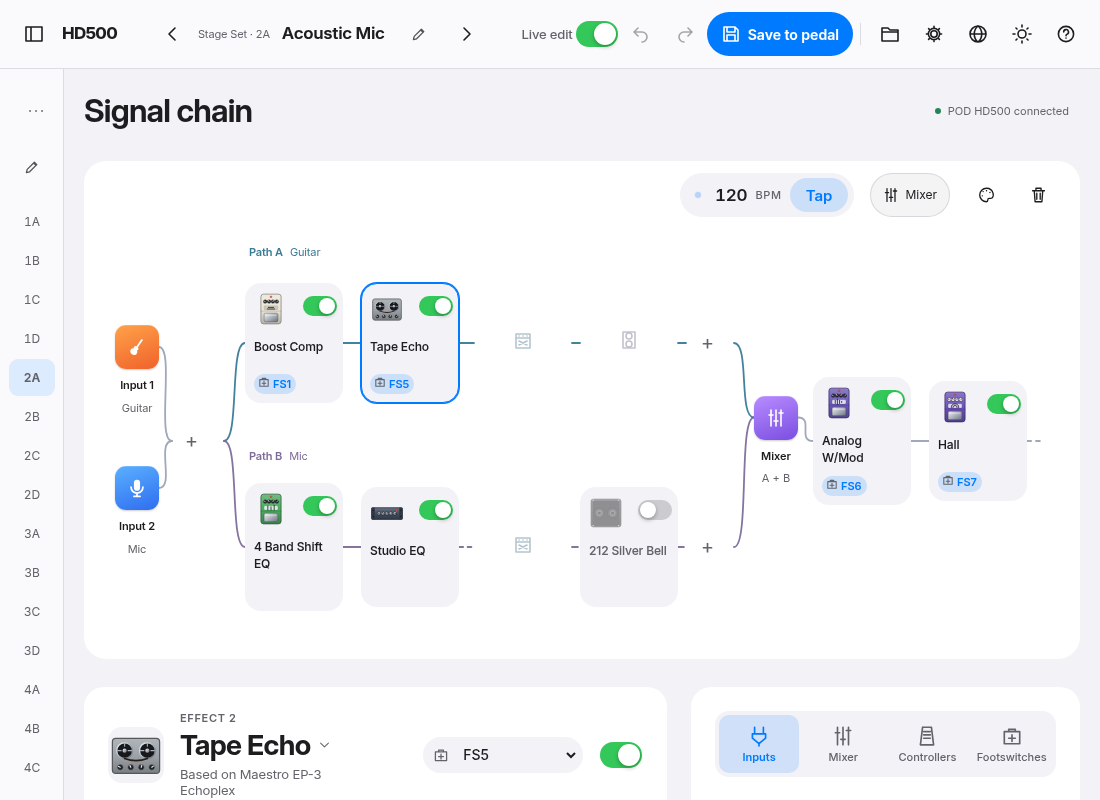
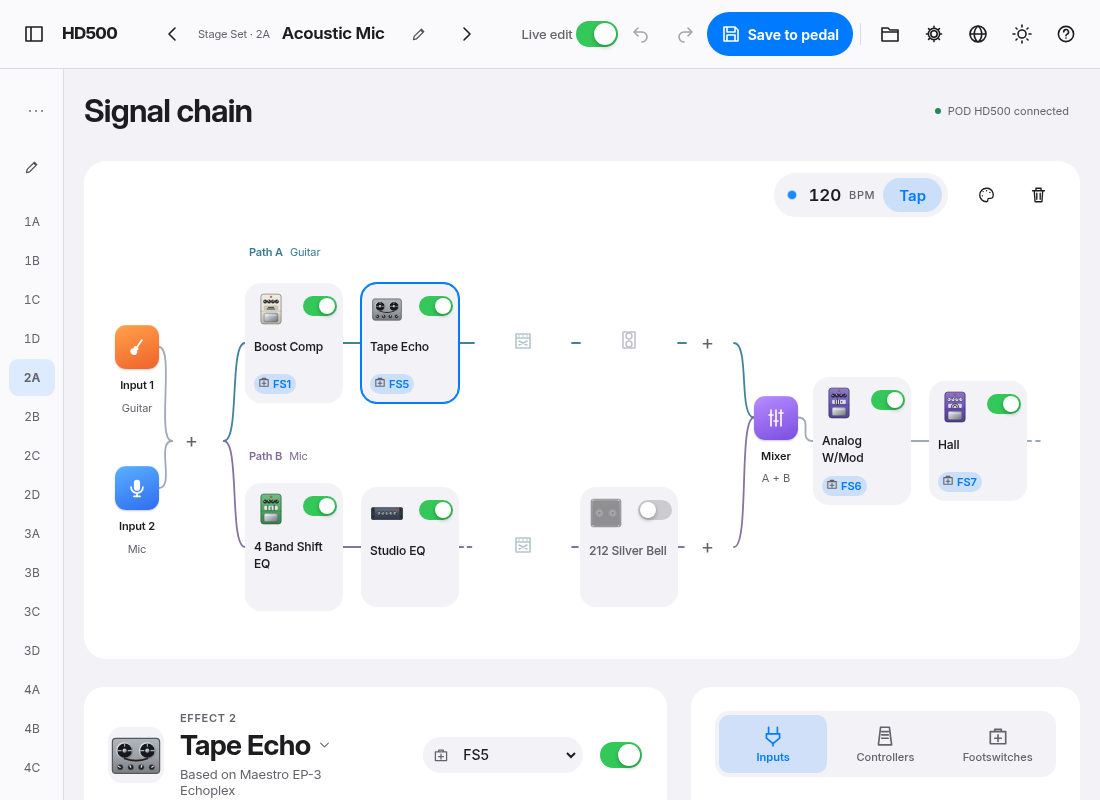
Mixer is a chain block edited in the inspector; removed Mixer tab and toolbar button

Changed region(s): [[0.68, 0.875, 0.9582, 0.9688], [0.6491, 0.2188, 0.8655, 0.2812]]

diff --git a/app/public/js/main.js b/app/public/js/main.js
@@ -9,14 +9,14 @@ import { initTooltips, h, api, fail, toast, $, modal, menu, download, pickFile, 
 import { S, onChange, notify, presetLabel } from './store.js';
 import { renderChain, flashItem, isDragging, clearBlock } from './chain.js';
 import { renderInspector, patchParam } from './inspector.js';
-import { renderSetup, renderMixer, renderControllers, renderFootswitches, renderAdvanced, renderSidebar, initSidebar, invalidate, flashFs, libraryProgress, learnSetup, learnUnknown, openDevTools } from './panels.js';
+import { renderSetup, renderControllers, renderFootswitches, renderAdvanced, renderSidebar, initSidebar, invalidate, flashFs, libraryProgress, learnSetup, learnUnknown, openDevTools } from './panels.js';
 import { selectSlot } from './nav.js';
 import { icon, buttonIcon } from './icons.js';
 
 initTooltips();
 new ResizeObserver(() => document.documentElement.style.setProperty('--toolbar-height', `${$('#top').getBoundingClientRect().height}px`)).observe($('#top'));
 
-const TABS = { setup: renderSetup, mixer: renderMixer, controllers: renderControllers, fs: renderFootswitches };
+const TABS = { setup: renderSetup, controllers: renderControllers, fs: renderFootswitches };
 let lastPreset = null, saving = false;
 
 function render() {
@@ -81,7 +81,7 @@ async function init() {
     const { item, active } = JSON.parse(e.data); if (liveEdits.ignores(`active:${item}`)) return; const it = S.st?.preset.items.find(i => i.id === item); if (!it) return;
     it.active = active; notify(); flashItem(item); if (it.fs) flashFs(it.fs);
   });
-  es.addEventListener('setup', e => { const ev = JSON.parse(e.data); if (liveEdits.ignores(`setup:${ev.id}`)) return; const set = S.st?.preset.settings.find(x => x.id === ev.id); if (set) set.value = ev.value;  { const m = S.st?.preset.mixer, k = ({ 44: 'levelA', 45: 'levelB', 46: 'panA', 47: 'panB' })[ev.id]; if (m && k) { m[k] = ev.value; if (S.tab === 'mixer') renderSide(); } if (ev.id === 23 && S.st && typeof ev.value === 'number') { S.st.preset.tempo = ev.value; if (S.tab === 'setup') renderSide(); } if (ev.id === 56 && S.st) { S.st.preset.trails = ev.value === 1; if (S.tab === 'mixer') renderSide(); } } learnSetup(ev); });
+  es.addEventListener('setup', e => { const ev = JSON.parse(e.data); if (liveEdits.ignores(`setup:${ev.id}`)) return; const set = S.st?.preset.settings.find(x => x.id === ev.id); if (set) set.value = ev.value;  { const m = S.st?.preset.mixer, k = ({ 44: 'levelA', 45: 'levelB', 46: 'panA', 47: 'panB' })[ev.id]; if (m && k) { m[k] = ev.value; if (S.sel === 'mixer') renderInspector($('#inspector')); } if (ev.id === 23 && S.st && typeof ev.value === 'number') { S.st.preset.tempo = ev.value; if (S.tab === 'setup') renderSide(); } if (ev.id === 56 && S.st) { S.st.preset.trails = ev.value === 1; if (S.sel === 'mixer') renderInspector($('#inspector')); } } learnSetup(ev); });
   es.addEventListener('unknown', e => learnUnknown(JSON.parse(e.data)));
   es.addEventListener('progress', e => libraryProgress(JSON.parse(e.data)));
 }
@@ -174,7 +174,7 @@ addEventListener('drop', async e => {
 // Local symbols and responsive library controls.
 for(const [id,name] of Object.entries({sidebarToggle:'sidebar',prev:'left',next:'right',undo:'undo',redo:'redo',revert:'reread',fileMenu:'library',pedalSettings:'settings',compare:'swap',language:'globe',help:'help',libraryMore:'more',libraryClose:'close',colorLegend:'colors',chainTrash:'trash'})) buttonIcon($('#'+id),name);
 buttonIcon($('#save'),'save','Save to pedal');$('#searchIcon').append(icon('search'));
-for(const [tab,name] of Object.entries({setup:'input',mixer:'mixer',controllers:'expression',fs:'footswitch'})) $('#tabs [data-tab="'+tab+'"]').prepend(icon(name));
+for(const [tab,name] of Object.entries({setup:'input',controllers:'expression',fs:'footswitch'})) $('#tabs [data-tab="'+tab+'"]').prepend(icon(name));
 $('#conn').setAttribute('aria-live','polite');
 function closeSidebar() { document.body.classList.remove('sidebar-open');document.body.classList.add('sidebar-collapsed');$('#drawerBackdrop').hidden=true;$('#sidebarToggle').setAttribute('aria-expanded','false');$('#sidebarToggle').focus(); syncSidebar(); }
 function openSidebar() { document.body.classList.remove('sidebar-collapsed');document.body.classList.add('sidebar-open');$('#drawerBackdrop').hidden=!matchMedia('(max-width: 799px)').matches;$('#sidebarToggle').setAttribute('aria-expanded','true'); syncSidebar(); if(innerWidth<800) $('#setSel').focus(); }
@@ -200,10 +200,8 @@ $('#librarySidebar').addEventListener('keydown',e=>{
   }
 });
 
-// atalho para o Mixer: abre a aba e leva o painel para a tela (ele fica abaixo da cadeia em telas baixas)
-const openMixer = () => { S.tab = 'mixer'; renderSide(); document.querySelector('#side')?.scrollIntoView({ behavior: matchMedia('(prefers-reduced-motion: reduce)').matches ? 'auto' : 'smooth', block: 'center' }); };
-{ const b = $('#openMixer'); b.append(icon('mixer'), document.createTextNode('Mixer')); b.onclick = openMixer; }
-document.addEventListener('open-mixer', openMixer);
+// The mixer is a node in the chain: select it (click or M) and its editor opens in the block inspector.
+const openMixer = () => { S.sel = 'mixer'; notify(); document.querySelector('#inspector')?.scrollIntoView({ behavior: matchMedia('(prefers-reduced-motion: reduce)').matches ? 'auto' : 'smooth', block: 'nearest' }); };
 addEventListener('keydown', e => { if (!e.ctrlKey && !e.metaKey && !e.altKey && !e.repeat && e.key.toLowerCase() === 't' && !e.target.matches('input, textarea, select, [contenteditable]')) tapTempo(); });
 addEventListener('keydown', e => { if (!e.ctrlKey && !e.metaKey && !e.altKey && e.key.toLowerCase() === 'm' && !e.target.matches('input, textarea, select, [contenteditable]')) openMixer(); });
 

diff --git a/app/public/css/app.css b/app/public/css/app.css
@@ -2029,7 +2029,7 @@ main { gap:28px; padding:32px; }
 #tabBody .mx-path, #tabBody .mx-trails, #tabBody .mx-grid { margin-bottom:8px; }
 
 /* Side-panel tab bar: iOS tab-bar layout (icon over label, equal columns, tinted selection) */
-#tabs.tabs { display:grid; grid-template-columns:repeat(4,1fr); gap:4px; padding:4px; margin:0 0 24px; overflow:visible; border:0; border-radius:14px; background:var(--panel2); }
+#tabs.tabs { display:grid; grid-template-columns:repeat(3,1fr); gap:4px; padding:4px; margin:0 0 24px; overflow:visible; border:0; border-radius:14px; background:var(--panel2); }
 #tabs.tabs button { flex:none; display:flex; flex-direction:column; align-items:center; justify-content:center; gap:4px; min-width:0; min-height:58px; padding:8px 0 7px; overflow:hidden; text-overflow:ellipsis; border:0; border-radius:10px; background:transparent; color:var(--dim); font:500 10.5px/1.15 var(--font-text); letter-spacing:0; white-space:nowrap; box-shadow:none; }
 #tabs.tabs .symbol { display:block; width:22px; height:22px; stroke-width:1.5; }
 #tabs.tabs button:hover { color:var(--text); background:color-mix(in srgb,var(--text) 6%,transparent); }
@@ -2214,3 +2214,9 @@ body.comparing #presetName b::after { content:" · saved"; font-weight:500; colo
 .cmd { font:12px ui-monospace,monospace; overflow-wrap:anywhere; flex:1; color:var(--text); }
 .connect-error { color:var(--ios-red); }
 #chain > .connect-help { grid-column:1 / -1; width:100%; }
+
+/* Mixer as a block: node selection + inspector body */
+.mix-node.sel .io-tile { box-shadow:0 0 0 2px var(--bg), 0 0 0 4px var(--accent); }
+#inspector .mixer-tile { background:linear-gradient(160deg,#b88cff,#7a4ee0); color:#fff; }
+#inspector .model-title.static { cursor:default; }
+.mixer-body .mx-grid, .mixer-body > div:first-child { gap:16px; }

diff --git a/app/public/js/chain.js b/app/public/js/chain.js
@@ -167,6 +167,7 @@ export function renderChain(root) {
   const signature=JSON.stringify([c,setup.input1,setup.input2,items.map(i=>[i.id,i.type,i.model,i.group,i.active,i.empty,i.fs])]);
   if(signature===chainSignature && root.querySelector('.paths')) {
     root.querySelectorAll('.block').forEach(el=>el.classList.toggle('sel',Number(el.dataset.item)===S.sel));
+    root.querySelector('#chainMixer')?.classList.toggle('sel',S.sel==='mixer');
     drawWires(); return;
   }
   chainSignature=signature;
@@ -180,7 +181,7 @@ export function renderChain(root) {
       h('div',{class:'input-source',dataset:{source:2}},ioTile(sourceIcon(inName(setup.input2===0?setup.input1:setup.input2))),h('b',{},'Input 2'),h('span',{class:'source'},inName(setup.input2)))),
     Lane('pre','Before · shared',c.pre),
     h('div',{class:'paths'},row('A',0,1,'aPre','aPost'),row('B',2,3,'bPre','bPost')),
-    h('button',{class:'io mix-node',id:'chainMixer',type:'button',title:'Mixer: level and pan of paths A and B (M)','aria-label':'Open the mixer',onClick:()=>document.dispatchEvent(new Event('open-mixer'))},h('span',{class:'io-tile io-mixer'},icon('mixer')),h('b',{},'Mixer'),h('span',{},'A + B')),
+    h('button',{class:`io mix-node ${S.sel==='mixer'?'sel':''}`,id:'chainMixer',type:'button',title:'Mixer: level and pan of paths A and B (M)','aria-label':'Open the mixer',onClick:()=>{ S.sel='mixer'; notify(); }},h('span',{class:'io-tile io-mixer'},icon('mixer')),h('b',{},'Mixer'),h('span',{},'A + B')),
     Lane('post','After · mix',c.post),h('div',{class:'io',id:'chainOutput'},ioTile('output'),h('b',{},'Output'),h('span',{},'Stereo')));
   resizeObserver?.disconnect(); resizeObserver=new ResizeObserver(()=>drawWires()); resizeObserver.observe(root);
   requestAnimationFrame(drawWires);

diff --git a/app/public/index.html b/app/public/index.html
@@ -44,7 +44,7 @@
   <main>
     <div class="workspace-heading"><div><h1>Signal chain</h1></div><button class="conn" id="conn" title="Reconnect to the pedal"><i class="dot"></i><span id="connText">connecting…</span></button></div>
     <section id="chainWrap" aria-label="Signal chain">
-      <div class="canvas-toolbar"><div><button id="openMixer" class="pill" title="Mixer: level and pan of paths A and B (M)" aria-label="Open the mixer"></button><button id="colorLegend" class="icon" title="Signal colors" aria-label="Signal colors"></button><button id="chainTrash" class="icon" title="Drag a block here to clear it" aria-label="Clear selected block"></button></div></div>
+      <div class="canvas-toolbar"><div><button id="colorLegend" class="icon" title="Signal colors" aria-label="Signal colors"></button><button id="chainTrash" class="icon" title="Drag a block here to clear it" aria-label="Clear selected block"></button></div></div>
       <div class="chain-scroll"><div id="chain"><div class="chain-skeleton"></div></div></div>
     </section>
     <div class="split">
@@ -52,7 +52,6 @@
       <aside id="side">
         <div class="tabs" role="tablist" aria-label="Preset controls" id="tabs">
           <button id="tab-setup" role="tab" data-tab="setup" aria-selected="true" aria-controls="tabBody">Inputs</button>
-          <button id="tab-mixer" role="tab" data-tab="mixer" aria-selected="false" aria-controls="tabBody">Mixer</button>
           <button id="tab-controllers" role="tab" data-tab="controllers" aria-selected="false" aria-controls="tabBody">Controllers</button>
           <button id="tab-fs" role="tab" data-tab="fs" aria-selected="false" aria-controls="tabBody">Footswitches</button>
         </div>

diff --git a/app/public/js/inspector.js b/app/public/js/inspector.js
@@ -7,9 +7,18 @@ import { ParamControl, edit, fmt } from './params.js';
 import { pickModel } from './picker.js';
 import { icon, categoryIcon } from './icons.js';
 import { tr } from './i18n.js';
+import { renderMixer } from './panels.js';
 
 let inspectedKey = null;
 export function renderInspector(root) {
+  if (S.sel === 'mixer') {
+    if (root.querySelector('.mx-path [data-dragging], .knob[data-dragging]') && inspectedKey === 'mixer') return;
+    inspectedKey = 'mixer';
+    const body = h('div', { class: 'mixer-body' });
+    root.replaceChildren(h('div', { class: 'insp-head' }, h('span', { class: 'category-tile mixer-tile' }, icon('mixer')),
+      h('div', { class: 'insp-title' }, h('span', { class: 'chip' }, 'Mix'), h('span', { class: 'model-title static' }, 'Mixer'), h('small', { class: 'based-on' }, 'Level and pan of paths A and B, and Trails'))), body);
+    renderMixer(body); return;
+  }
   const it = S.st.preset.items.find(i => i.id === S.sel);
   if (!it) { root.replaceChildren(h('div', { class: 'placeholder' }, 'Select a block in the signal chain.')); return; }
   const key = `${it.id}:${it.type}`;

diff --git a/CHANGELOG.md b/CHANGELOG.md
@@ -1,6 +1,7 @@
 # Changelog
 
 ## 0.2.9
+- The Mixer is now a block of the signal chain: select the Mixer node (or press M) and it opens in the block inspector like any pedal. The Mixer tab and toolbar button are gone.
 - Tempo pill with Tap in the chain toolbar (blinks at the tempo; T key); the chain now fits the window in two compact steps.
 - Compare button: hear the saved version against your edits.
 - Backups sheet (File ▸ Backups…) and Setlist sheet (File ▸ Print setlist…: print/PDF/CSV).
